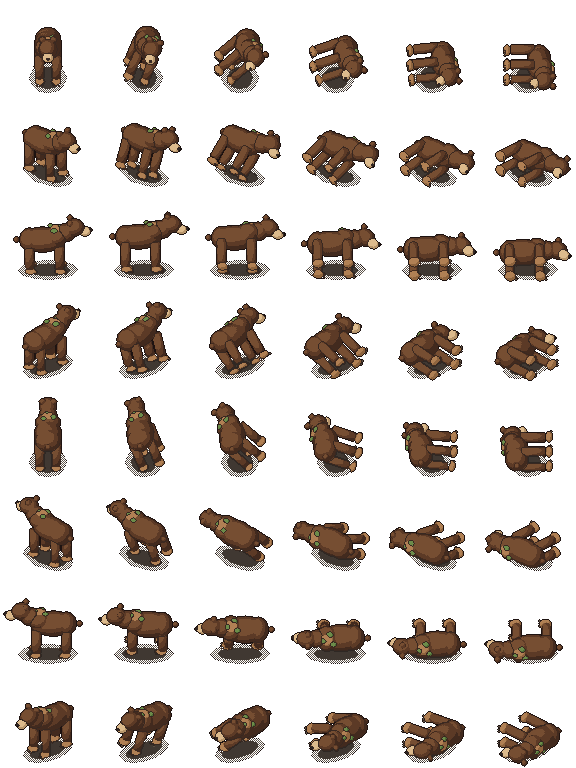
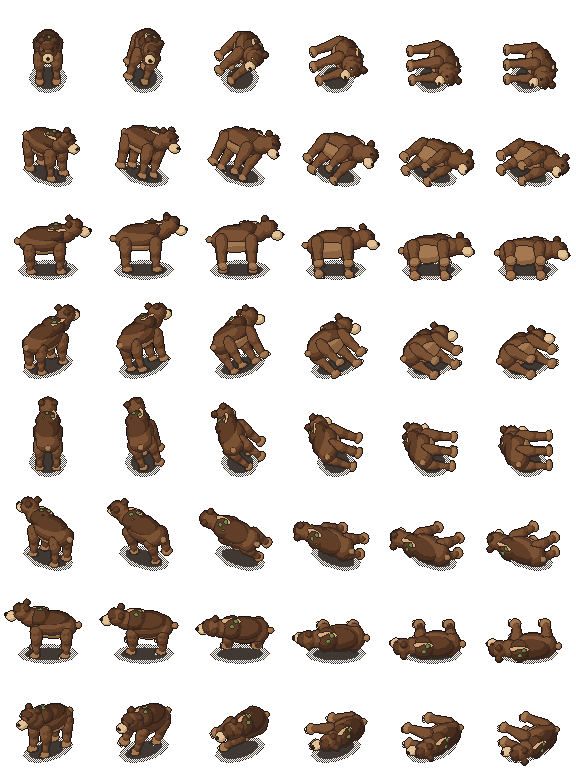
fix: monsters: caveBear com formas organicas (corcunda, pernas afinadas, tufo de musgo)
- tronco arredondado com corcunda nos ombros, traseiro mais baixo, costas escuras e barriga clara
- pernas grossas que afinam ate a pata, garras claras, cabeca com testa, orelhas redondas, olho escuro com brilho de 1 px e focinho claro
- musgo em tufo de 3 bolinhas; rim light fino no ombro
- escala e pivo (linha 78) mantidos; atlas revalidado

diff --git a/art-source/monsters/caveBear/build.py b/art-source/monsters/caveBear/build.py
@@ -44,13 +44,16 @@ ESCALA_JOGO = 0.95
 MATS = {
     "sombra_meia": dict(r=[(96, 86, 76)], layer="sombra_meia", w=1.0, dith=0.0, bias=0.0, ao=0.0),
     "sombra": dict(r=[(64, 56, 50), (46, 40, 36)], layer="sombra", w=1.0, dith=0.0, bias=0.0, ao=0.0),
-    "pelo": dict(r=[(118, 78, 50), (92, 58, 38), (66, 42, 30)], layer="corpo", w=1.0, dith=0.02, bias=0.0, ao=0.5),
-    "pelo_claro": dict(r=[(176, 128, 84), (142, 100, 62)], layer="corpo", w=1.0, dith=0.02, bias=0.0, ao=0.2),
-    "focinho": dict(r=[(220, 186, 140), (182, 148, 106)], layer="corpo", w=1.0, dith=0.02, bias=0.0, ao=0.2),
+    "pelo_escuro": dict(r=[(96, 62, 40), (74, 46, 30), (56, 36, 26)], layer="corpo", w=1.0, dith=0.02, bias=0.0, ao=0.5),
+    "pelo": dict(r=[(124, 82, 52), (100, 64, 40), (76, 48, 32)], layer="corpo", w=1.0, dith=0.02, bias=0.0, ao=0.4),
+    "pelo_claro": dict(r=[(164, 120, 80), (138, 98, 64)], layer="corpo", w=1.0, dith=0.02, bias=0.0, ao=0.2),
+    "rim": dict(r=[(216, 172, 122)], layer="corpo", w=1.0, dith=0.0, bias=0.0, ao=0.0),
+    "focinho": dict(r=[(226, 194, 148), (192, 158, 116)], layer="corpo", w=1.0, dith=0.02, bias=0.0, ao=0.2),
     "musgo": dict(r=[(108, 140, 74), (76, 108, 52)], layer="corpo", w=1.2, dith=0.02, bias=0.0, ao=0.6),
-    "garra": dict(r=[(92, 80, 68), (48, 40, 36)], layer="olhos", w=1.5, dith=0.0, bias=0.0, ao=0.2),
-    "olho": dict(r=[(56, 44, 40), (20, 16, 16)], layer="olhos", w=2.0, dith=0.0, bias=0.0, ao=0.1),
-    "nariz": dict(r=[(44, 36, 34), (18, 14, 14)], layer="olhos", w=2.0, dith=0.0, bias=0.0, ao=0.1),
+    "garra": dict(r=[(244, 232, 204), (206, 188, 150)], layer="olhos", w=1.5, dith=0.0, bias=0.0, ao=0.1),
+    "olho": dict(r=[(44, 34, 30), (20, 16, 16)], layer="olhos", w=2.0, dith=0.0, bias=0.0, ao=0.1),
+    "brilho": dict(r=[(255, 252, 236)], layer="olhos", w=3.0, dith=0.0, bias=0.0, ao=0.0),
+    "nariz": dict(r=[(38, 30, 28), (18, 14, 14)], layer="olhos", w=2.0, dith=0.0, bias=0.0, ao=0.1),
 }
 CAMADAS = ["sombra_meia", "sombra", "corpo", "olhos"]                     # ordem de baixo para cima
 ESTILO = PP.Estilo(tile=TILE, mats=MATS, camadas=CAMADAS, sem_linha=("sombra", "sombra_meia"),
@@ -128,6 +131,31 @@ def tubo(a, b, r, lados=8):
     return orientar(verts, faces)
 
 
+def tubo_afinado(a, b, ra, rb, lados=8):
+    """Tronco de cone entre a e b (raio ra na ponta a, rb na ponta b), com tampas."""
+    a, b = np.array(a, np.float64), np.array(b, np.float64)
+    w = (b - a) / np.linalg.norm(b - a)
+    ref = np.array([0, 0, 1.0]) if abs(w[2]) < 0.9 else np.array([1.0, 0, 0])
+    u = np.cross(w, ref)
+    u /= np.linalg.norm(u)
+    v = np.cross(w, u)
+    verts = []
+    for ponta, r in ((a, ra), (b, rb)):
+        for j in range(lados):
+            t = 2 * math.pi * j / lados
+            verts.append(tuple(ponta + r * (math.cos(t) * u + math.sin(t) * v)))
+    verts.append(tuple(a))
+    verts.append(tuple(b))
+    faces = []
+    ca, cb = 2 * lados, 2 * lados + 1
+    for j in range(lados):
+        j2 = (j + 1) % lados
+        faces.append((j, j2, lados + j2, lados + j))
+        faces.append((ca, j2, j))
+        faces.append((cb, lados + j, lados + j2))
+    return orientar(verts, faces)
+
+
 def juntar(*malhas):
     verts, faces = [], []
     for vs, fs in malhas:
@@ -137,8 +165,8 @@ def juntar(*malhas):
     return verts, faces
 
 
-# ------------------------------------------------------------------ partes do urso
-# tipo: "fixo" (sombra, so gira), "corpo" (tronco, gira e segue o balanco), "cabeca" (gira em torno do pescoco),
+# ------------------------------------------------------------------ partes do urso (formas organicas)
+# tipo: "fixo" (sombra), "corpo" (tronco e enfeites, gira com a direcao), "cabeca" (gira em torno do pescoco),
 # "perna" (gira em torno do quadril; perna = 0..3, FL, FR, BL, BR)
 PARTES = []
 PERNAS = [
@@ -155,38 +183,49 @@ def add(nome, layer, mat, grp, malha, tipo="corpo", perna=None):
 
 
 add("sombra_meia", "sombra_meia", "sombra_meia", 30, elipsoide((0.0, 0.0, 0.001), 0.42, 0.66, 0.001, 1), "fixo")
-add("sombra", "sombra", "sombra", 31, elipsoide((0.0, 0.0, 0.002), 0.30, 0.52, 0.002, 1), "fixo")
+add("sombra", "sombra", "sombra", 31, elipsoide((0.0, 0.0, 0.002), 0.30, 0.52, 0.002, 2), "fixo")
 
-# tronco, ombros e quadris (grupo 1: sem linha interna entre as partes do corpo)
-add("tronco", "corpo", "pelo", 1, elipsoide((0.0, 0.12, 0.80), 0.30, 0.52, 0.27, 2))
-add("ombros", "corpo", "pelo", 1, elipsoide((0.0, -0.20, 0.92), 0.28, 0.26, 0.20, 2))
-add("quadril", "corpo", "pelo", 1, elipsoide((0.0, 0.42, 0.80), 0.28, 0.22, 0.25, 2))
-add("cauda", "corpo", "pelo", 1, elipsoide((0.0, 0.72, 0.80), 0.060, 0.060, 0.060, 1))
-add("pelo_claro_ombro", "corpo", "pelo_claro", 1, elipsoide((0.0, -0.20, 1.10), 0.14, 0.14, 0.04, 1))
-add("musgo0", "corpo", "musgo", 7, elipsoide((-0.12, -0.14, 1.10), 0.060, 0.070, 0.035, 1))
-add("musgo1", "corpo", "musgo", 7, elipsoide((0.10, -0.06, 1.11), 0.050, 0.060, 0.030, 1))
-add("musgo2", "corpo", "musgo", 7, elipsoide((0.02, -0.28, 1.12), 0.050, 0.050, 0.030, 1))
+# tronco arredondado: massa media, costas escuras por cima, barriga clara por baixo, corcunda e traseiro mais baixo
+add("tronco", "corpo", "pelo", 1, elipsoide((0.0, 0.10, 0.80), 0.30, 0.50, 0.26, 2))
+add("costas", "corpo", "pelo_escuro", 1, elipsoide((0.0, 0.08, 0.92), 0.27, 0.44, 0.16, 2))
+add("barriga", "corpo", "pelo_claro", 8, elipsoide((0.0, 0.12, 0.62), 0.25, 0.42, 0.13, 2))
+add("corcunda", "corpo", "pelo_escuro", 1, elipsoide((0.0, -0.18, 0.98), 0.27, 0.25, 0.19, 2))
+add("traseiro", "corpo", "pelo", 1, elipsoide((0.0, 0.42, 0.74), 0.28, 0.23, 0.21, 2))
+add("cauda", "corpo", "pelo_claro", 1, elipsoide((0.0, 0.70, 0.76), 0.065, 0.065, 0.065, 1))
+add("luz_ombro", "corpo", "rim", 9, elipsoide((-0.12, -0.20, 1.12), 0.07, 0.22, 0.02, 1))
 
-# cabeca e pescoco (giram em torno do pescoco, para o golpe e a morte)
-add("pescoco", "corpo", "pelo", 2, elipsoide((0.0, -0.40, 0.98), 0.20, 0.22, 0.20, 2), "cabeca")
-add("cabeca", "corpo", "pelo", 2, elipsoide((0.0, -0.60, 1.12), 0.19, 0.22, 0.19, 2), "cabeca")
-add("orelha0", "corpo", "pelo", 2, elipsoide((-0.13, -0.50, 1.30), 0.07, 0.06, 0.06, 1), "cabeca")
-add("orelha1", "corpo", "pelo", 2, elipsoide((0.13, -0.50, 1.30), 0.07, 0.06, 0.06, 1), "cabeca")
-add("focinho", "corpo", "focinho", 3, elipsoide((0.0, -0.84, 1.02), 0.115, 0.13, 0.10, 2), "cabeca")
-add("nariz", "olhos", "nariz", 4, elipsoide((0.0, -0.97, 1.05), 0.045, 0.040, 0.035, 1), "cabeca")
-add("olho0", "olhos", "olho", 5, elipsoide((-0.10, -0.74, 1.16), 0.030, 0.030, 0.030, 1), "cabeca")
-add("olho1", "olhos", "olho", 6, elipsoide((0.10, -0.74, 1.16), 0.030, 0.030, 0.030, 1), "cabeca")
+# tufo de musgo: 3 bolinhas irregulares no alto da corcunda (nao um bloco)
+add("musgo0", "corpo", "musgo", 7, elipsoide((-0.10, -0.10, 1.13), 0.050, 0.055, 0.040, 1))
+add("musgo1", "corpo", "musgo", 7, elipsoide((0.02, -0.18, 1.17), 0.040, 0.045, 0.034, 1))
+add("musgo2", "corpo", "musgo", 7, elipsoide((0.09, -0.07, 1.11), 0.032, 0.036, 0.028, 1))
 
-# 4 pernas: coxa e canela (tubo), pata (elipsoide), 3 garras (grupo proprio, material garra)
+# pescoco, cranio com testa, orelhas redondas, focinho claro, olhos escuros com brilho de 1 px
+add("pescoco", "corpo", "pelo", 2, elipsoide((0.0, -0.40, 0.96), 0.20, 0.22, 0.20, 2), "cabeca")
+add("cranio", "corpo", "pelo", 2, elipsoide((0.0, -0.58, 1.10), 0.19, 0.20, 0.19, 2), "cabeca")
+add("testa", "corpo", "pelo_escuro", 2, elipsoide((0.0, -0.66, 1.21), 0.15, 0.12, 0.08, 2), "cabeca")
+add("orelha0", "corpo", "pelo_escuro", 2, elipsoide((-0.14, -0.48, 1.27), 0.075, 0.07, 0.07, 2), "cabeca")
+add("orelha1", "corpo", "pelo_escuro", 2, elipsoide((0.14, -0.48, 1.27), 0.075, 0.07, 0.07, 2), "cabeca")
+add("focinho", "corpo", "focinho", 3, elipsoide((0.0, -0.83, 1.00), 0.12, 0.13, 0.10, 2), "cabeca")
+add("nariz", "olhos", "nariz", 4, elipsoide((0.0, -0.94, 1.04), 0.05, 0.04, 0.035, 1), "cabeca")
+add("olho0", "olhos", "olho", 5, elipsoide((-0.10, -0.74, 1.15), 0.036, 0.034, 0.036, 1), "cabeca")
+add("olho1", "olhos", "olho", 6, elipsoide((0.10, -0.74, 1.15), 0.036, 0.034, 0.036, 1), "cabeca")
+add("brilho0", "olhos", "brilho", 25, elipsoide((-0.11, -0.77, 1.18), 0.012, 0.012, 0.012, 0), "cabeca")
+add("brilho1", "olhos", "brilho", 26, elipsoide((0.09, -0.77, 1.18), 0.012, 0.012, 0.012, 0), "cabeca")
+
+# 4 pernas grossas em cima que afinam ate a pata; pata clara; 3 garras claras por pata
 for k, pe in enumerate(PERNAS):
     hx, hy, hz = pe["H"]
     grp = 10 + k
-    add("perna%d" % k, "corpo", "pelo", grp, tubo((hx, hy, hz), (hx, hy, 0.16), 0.10), "perna", perna=k)
-    px, py = hx, hy - 0.02
-    add("pata%d" % k, "corpo", "pelo_claro", grp, elipsoide((px, py, 0.07), 0.12, 0.13, 0.07, 1), "perna", perna=k)
-    for j, dx in enumerate((-0.06, 0.0, 0.06)):
+    coxa = juntar(tubo_afinado((hx, hy, hz), (hx, hy, 0.36), 0.14, 0.095),
+                  tubo_afinado((hx, hy, 0.36), (hx, hy - 0.01, 0.10), 0.095, 0.07),
+                  elipsoide((hx, hy, hz), 0.14, 0.14, 0.14, 1),
+                  elipsoide((hx, hy, 0.36), 0.095, 0.095, 0.095, 1))
+    add("perna%d" % k, "corpo", "pelo", grp, coxa, "perna", perna=k)
+    px, py = hx, hy - 0.03
+    add("pata%d" % k, "corpo", "pelo_claro", grp, elipsoide((px, py, 0.075), 0.115, 0.12, 0.075, 2), "perna", perna=k)
+    for j, dx in enumerate((-0.05, 0.0, 0.05)):
         add("garra%d_%d" % (k, j), "olhos", "garra", 20 + 3 * k + j,
-            elipsoide((px + dx, py - 0.13, 0.03), 0.022, 0.022, 0.022, 0), "perna", perna=k)
+            elipsoide((px + dx, py - 0.12, 0.035), 0.022, 0.024, 0.022, 0), "perna", perna=k)
 
 
 # ------------------------------------------------------------------ poses (locais; base no z = 0)
